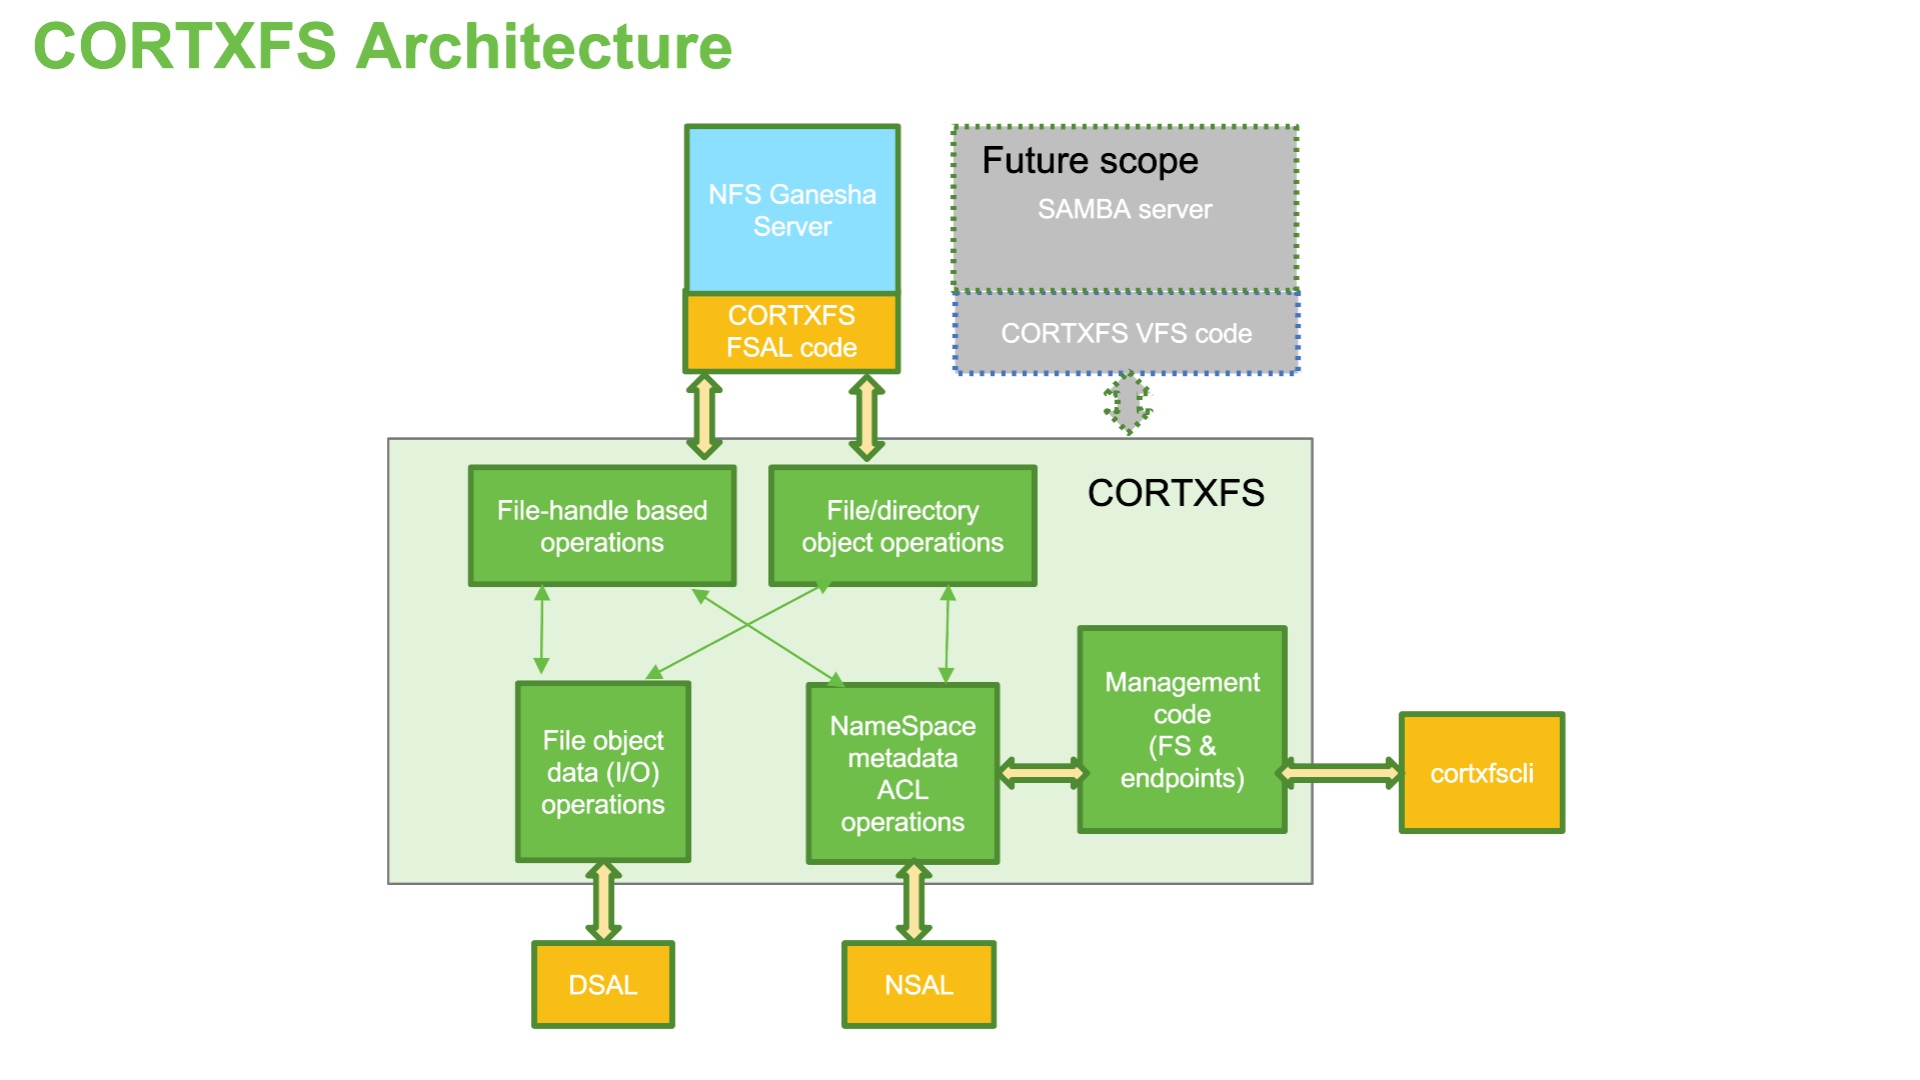
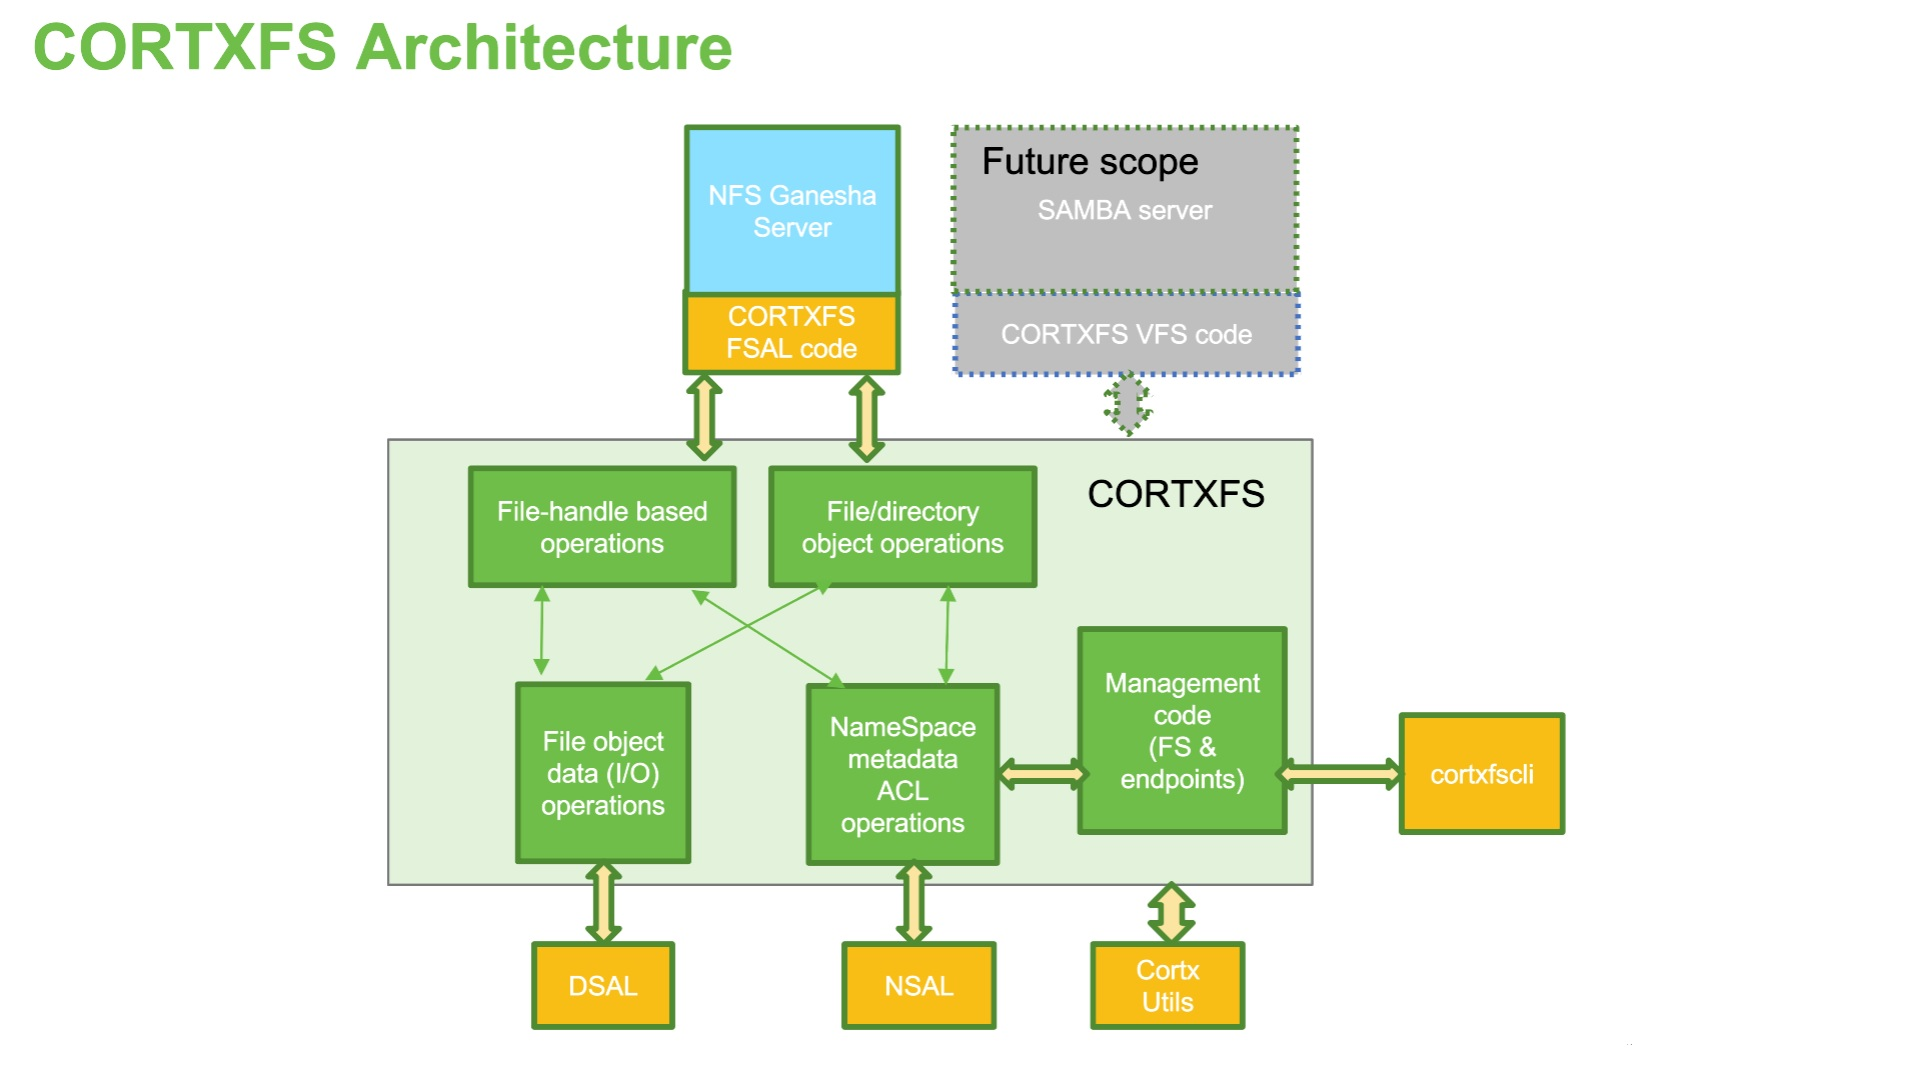
end

diff --git a/doc/CortxFSQuickStart.md b/doc/CortxFSQuickStart.md
@@ -1,7 +1,8 @@
-# CORTXFS QuickStart guide
+# CORTXFS Quick Start Guide
+
 CORTXFS provides file system infrastructure over clustered object store.
-This file system infrastructure is suitable for file access protocols like
-NFS, CIFS.
+This file system infrastructure provides a subset of POSIX file system APIs so
+that it is suitable for file access protocols like NFS, CIFS.
 CORTXFS interacts with NSAL and DSAL libraries to provide file system like
 infrastructure.
 
@@ -13,12 +14,19 @@ space, which can be accessed from any node in the clustered object store.
 [Know more about NSAL](https://github.com/Seagate/cortx-nsal)
 
 CORTXFS makes use of NSAL to create file system and export information (a.k.a.
-endpoint). The directory structure is represented as kvtree in NSAL. The file
-is represented via kvnode in NSAL, just like inode. 
+endpoint). The directory structure is represented as kvtree in NSAL. Every
+file, directory and symlink is represented via kvnode in NSAL. Kvnode stores
+the metadata about the object it represents, just like inode. Every file in
+CORTXFS is uniquely identified by a 128 bit object id and a corresponding DSAL
+object is created on the backend store to store the file data. For a directory,
+no backend DSAL object is created.
 
 DSAL (Data Store Abstraction Layer) provides a way to write, read and
 modify the file data, from any node in the clustered object store. 
 [Know more about DSAL](https://github.com/Seagate/cortx-dsal)
+
+CORTXFS code makes use of [cortx-utils]() for various functionalities like
+logging, unit test infrastructure.
 
 ### Code structure
 CORTXFS provides 2 major ways to deal with underneath file/directory objects.
